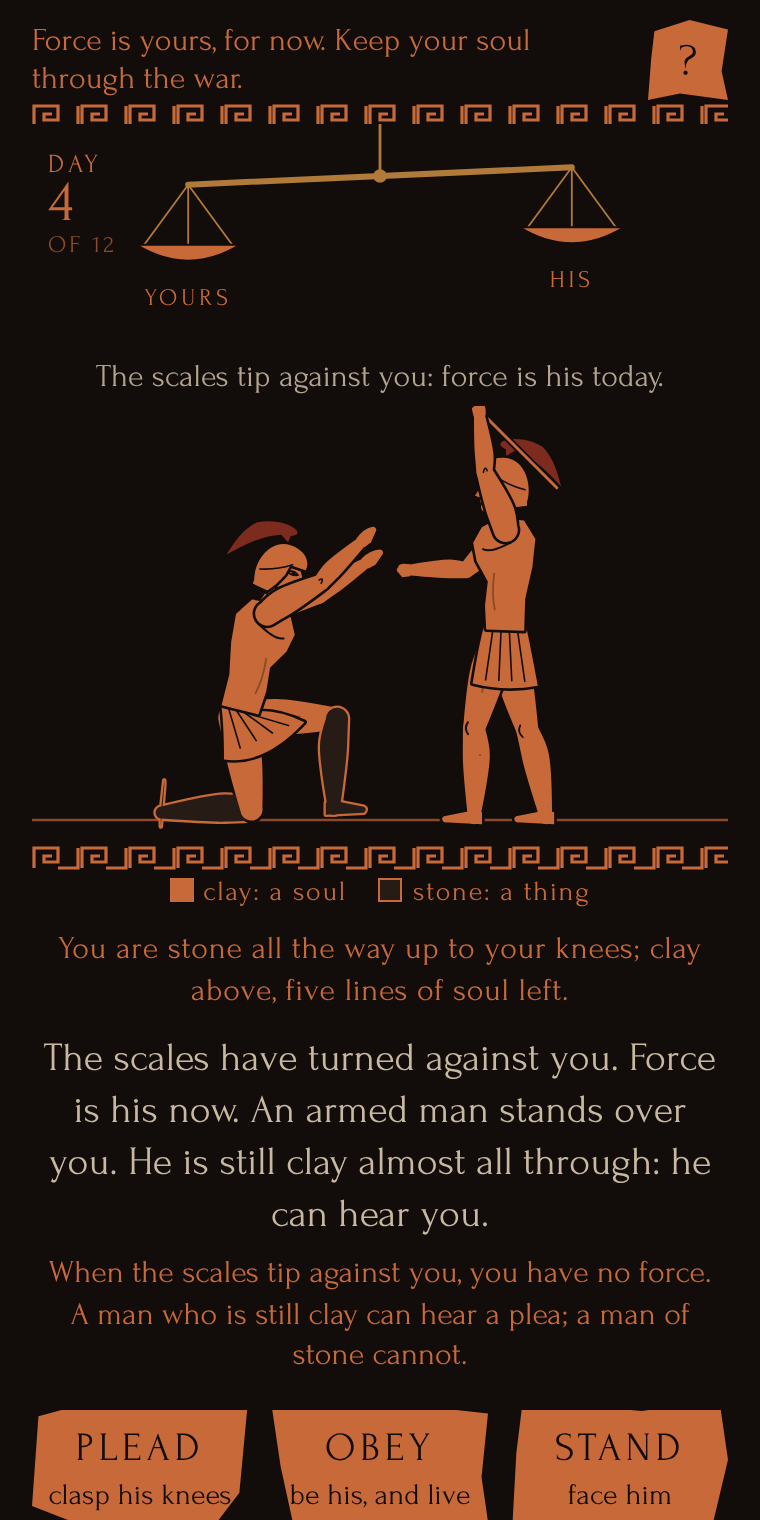
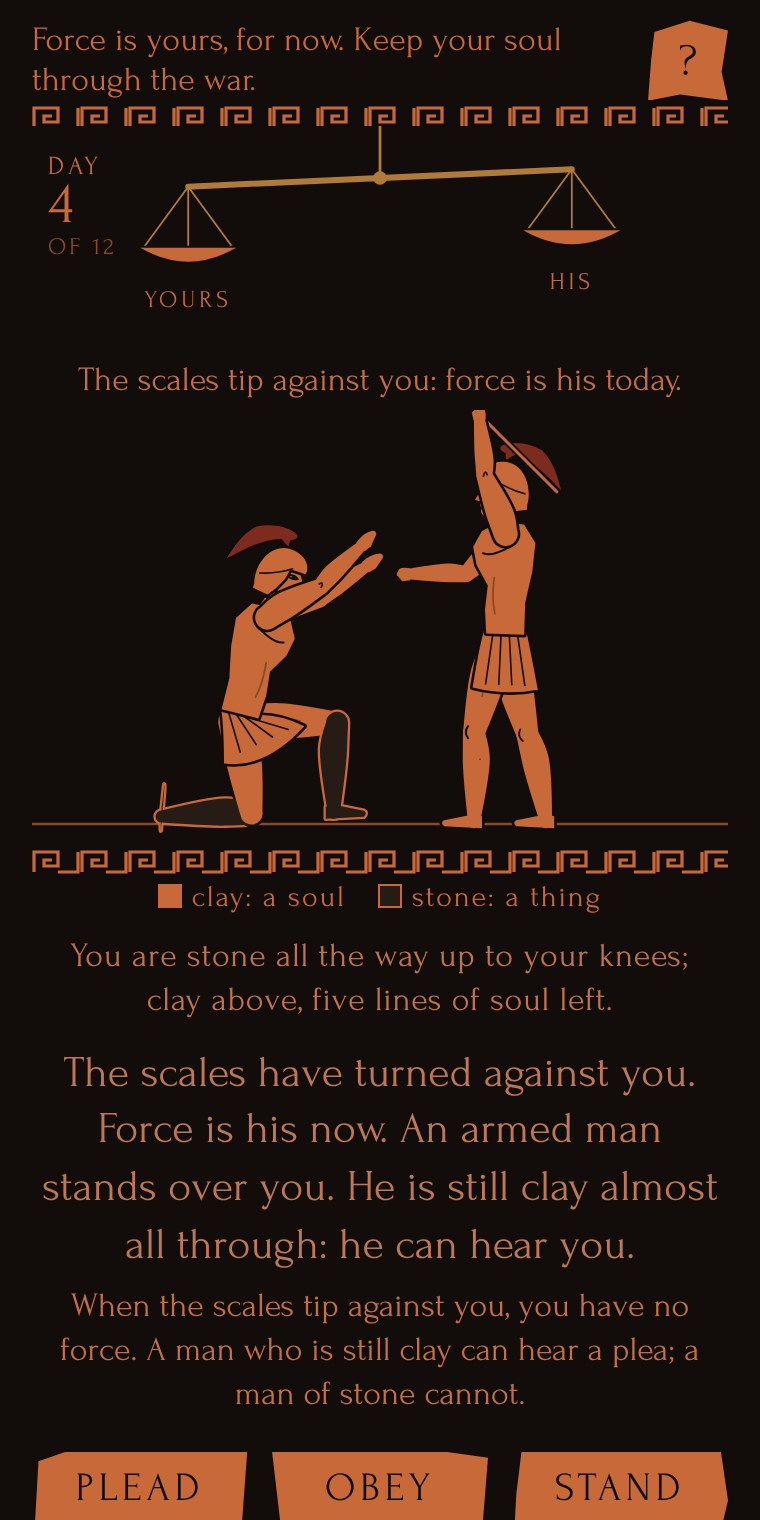
Weil's Vase, revision 4: one axis of ink from clay to the stone line's warm grey; sizes a step up
Claude-Session: https://claude.ai/code/session_018niUhvwiMGBqmAW4HxwubP

diff --git a/weil/weils-vase.html b/weil/weils-vase.html
@@ -9,12 +9,14 @@
 <style>
[1 lines of base64/hex data omitted]
 :root{
-  --glaze:#120D0B; --clay:#C8693A; --dilute:#8A4A26; --white:#C9B9A1; --bright:#F0E6D2; --red:#7E2B1F; --stone:#271B15;
+  --glaze:#120D0B; --clay:#C8693A; --dilute:#8A4A26; --red:#7E2B1F; --stone:#271B15;
+  /* text: one axis from clay to the stone line's grey (#AF8A75); the further from the world and the nearer the verdict on you, the greyer and the larger */
+  --ink2:#C37046; --ink3:#C0734C; --ink45:#BD7855; --ink5:#BC7A58; --ink6:#B97D5D; --ink7:#B68063; --ink8:#B48369; --ink10:#AF8A75; --white:#B97D5D;
   --face:'Forum','Times New Roman',serif;
 }
 *{box-sizing:border-box;-webkit-tap-highlight-color:transparent}
 html,body{margin:0;padding:0;background:var(--glaze)}
-body{color:var(--white);font-family:var(--face);font-size:19px;line-height:1.32;min-height:100vh;overflow-x:hidden}
+body{color:var(--ink6);font-family:var(--face);font-size:20px;line-height:1.32;min-height:100vh;overflow-x:hidden}
 .screen{display:none;max-width:440px;margin:0 auto;padding:0 16px 28px;min-height:100vh;position:relative}
 .screen.on{display:block}
 .hidden{display:none!important}
@@ -25,23 +27,23 @@ svg{display:block}
 /* the start */
 #start h1{font-weight:400;font-size:42px;letter-spacing:.2em;text-align:center;margin:18px 0 0;color:var(--clay);line-height:1.05}
 #start .sub{text-align:center;font-size:15px;letter-spacing:.14em;color:var(--dilute);text-transform:uppercase;margin:6px 0 4px}
-#start .lede{text-align:center;font-size:22px;margin:8px 4px 6px}
-#start .acts{text-align:center;font-size:17px;color:var(--white);opacity:.92;margin:8px 6px}
-.aimline{font-size:21px;text-align:center;color:var(--clay);margin:14px 0 8px;line-height:1.25}
+#start .lede{text-align:center;font-size:24px;margin:8px 4px 6px;color:var(--ink8)}
+#start .acts{text-align:center;font-size:18px;color:var(--ink5);margin:8px 6px}
+.aimline{font-size:22px;text-align:center;color:var(--clay);margin:14px 0 8px;line-height:1.25}
 .small{font-size:15px;color:var(--dilute)}
 .links{display:flex;justify-content:center;gap:22px;margin:12px 0 4px;font-size:16px}
 .links button{background:none;border:0;color:var(--clay);font-family:var(--face);font-size:16px;letter-spacing:.12em;text-transform:uppercase;padding:8px 4px;cursor:pointer}
 .sig{text-align:center;margin:20px 0 6px;font-style:italic;font-size:14px;opacity:.6}
-.sig a{color:var(--white);text-decoration:none;text-transform:lowercase}
+.sig a{color:var(--ink6);text-decoration:none;text-transform:lowercase}
 .lifeno{text-align:center;font-size:13px;color:var(--dilute);letter-spacing:.1em;margin-top:6px}
 /* the sherds */
 .shw{position:relative;transition:transform .15s}
 .sherd{display:block;width:100%;border:0;cursor:pointer;font-family:var(--face);color:var(--glaze);text-align:center;
   background:linear-gradient(to bottom,var(--glaze) 0 5px,var(--clay) 5px);padding:13px 8px 9px;min-height:66px}
 .sherd .w{display:block;font-size:23px;letter-spacing:.18em;text-transform:uppercase;line-height:1}
-.sherd .s{display:block;font-size:15px;line-height:1.15;margin-top:5px}
+.sherd .s{display:block;font-size:16px;line-height:1.15;margin-top:5px}
 .sherd:disabled{cursor:default;opacity:.5;background:linear-gradient(104deg,var(--clay) 0 9%,var(--glaze) 9% 10.5%,var(--clay) 10.5% 88%,var(--glaze) 88% 89.5%,var(--clay) 89.5%)}
-.sherd:disabled .s{font-size:14px}
+.sherd:disabled .s{font-size:15px}
 .sh0{clip-path:polygon(3% 12%,30% 0%,72% 6%,100% 0%,96% 70%,82% 100%,22% 94%,0% 80%)}
 .sh1{clip-path:polygon(0% 6%,45% 0%,100% 10%,97% 58%,100% 92%,58% 100%,10% 95%,4% 50%)}
 .sh2{clip-path:polygon(5% 0%,60% 8%,96% 0%,100% 45%,92% 100%,40% 94%,0% 100%,2% 40%)}
@@ -54,41 +56,41 @@ svg{display:block}
 .sherds.three .sherd .w{font-size:20px;letter-spacing:.12em}
 /* the play screen */
 .top{display:flex;align-items:center;gap:10px;margin:10px 0 2px}
-.aim{flex:1;font-size:16px;color:var(--clay);line-height:1.2}
+.aim{flex:1;font-size:17px;color:var(--clay);line-height:1.2}
 .q{width:40px;height:40px;flex:none;border:0;background:var(--clay);color:var(--glaze);font-family:var(--face);font-size:22px;cursor:pointer;
   clip-path:polygon(8% 14%,52% 0%,100% 12%,92% 64%,100% 100%,40% 92%,0% 100%,4% 48%)}
 #shoulderBox{position:relative}
-.scap{font-size:16px;text-align:center;color:var(--white);opacity:.88;margin:2px 0 4px;min-height:21px}
+.scap{font-size:17px;text-align:center;color:var(--ink2);margin:2px 0 4px;min-height:22px}
 #friezeBox{position:relative}
-.legend{display:flex;justify-content:center;gap:16px;font-size:14px;color:var(--clay);margin:2px 0 0;letter-spacing:.06em}
+.legend{display:flex;justify-content:center;gap:16px;font-size:15px;color:var(--clay);margin:2px 0 0;letter-spacing:.06em}
 .legend i{font-style:normal;display:inline-block;width:12px;height:12px;vertical-align:-1px;margin-right:5px;border:1px solid var(--clay)}
 .legend .c i{background:var(--clay)} .legend .k i{background:var(--stone)}
-.you{text-align:center;font-size:16px;color:var(--clay);margin:8px 10px 0;letter-spacing:.02em}
-.scene{font-size:20px;line-height:1.3;text-align:center;margin:10px 2px 4px;color:var(--white)}
-.teach{font-size:16px;line-height:1.3;text-align:center;color:var(--clay);margin:6px 6px 4px}
-.creep{font-size:17px;text-align:center;color:var(--white);margin:6px 0 0}
+.you{text-align:center;font-size:17px;color:var(--ink3);margin:8px 10px 0;letter-spacing:.02em}
+.scene{font-size:22px;line-height:1.3;text-align:center;margin:10px 2px 4px;color:var(--ink45)}
+.teach{font-size:17px;line-height:1.3;text-align:center;color:var(--ink2);margin:6px 6px 4px}
+.creep{font-size:18px;text-align:center;color:var(--ink5);margin:6px 0 0}
 .creep b{font-weight:400;color:var(--clay);letter-spacing:.1em;text-transform:uppercase}
 #result{margin:12px 0 0;text-align:center}
-#result .said{font-size:20px;line-height:1.3}
-#result .cost{font-size:22px;color:var(--bright);margin-top:8px;letter-spacing:.02em;line-height:1.25}
-#result .why{font-size:17px;color:var(--white);margin:8px 8px 0;opacity:.92}
-#result .quote{font-size:16px;color:var(--dilute);margin:8px 10px 0;filter:brightness(1.35)}
-#result .scl{font-size:16px;color:var(--white);opacity:.8;margin:8px 0 0}
+#result .said{font-size:22px;line-height:1.3;color:var(--ink7)}
+#result .cost{font-size:25px;color:var(--ink10);margin-top:8px;letter-spacing:.02em;line-height:1.25}
+#result .why{font-size:18px;color:var(--ink6);margin:8px 8px 0}
+#result .quote{font-size:17px;color:var(--ink3);margin:8px 10px 0}
+#result .scl{font-size:17px;color:var(--ink45);margin:8px 0 0}
 #result .sherd{margin-top:16px}
 .meander{height:12px;margin:0}
 /* the end */
-#end h2{font-weight:400;font-size:25px;line-height:1.25;text-align:center;color:var(--clay);margin:22px 4px 10px}
+#end h2{font-weight:400;font-size:27px;line-height:1.25;text-align:center;color:var(--ink5);margin:22px 4px 10px}
 #panels{display:grid;grid-template-columns:repeat(3,1fr);gap:6px;margin:10px 0}
 .pan{background:var(--glaze);border-top:1px solid var(--dilute);border-bottom:1px solid var(--dilute)}
-.pan .pl{font-size:12px;text-align:center;color:var(--clay);letter-spacing:.08em;padding:2px 0 3px;line-height:1.1}
-.did{font-size:18px;text-align:center;margin:6px 4px}
-.weil{font-size:19px;text-align:center;margin:16px 4px 6px;color:var(--white)}
+.pan .pl{font-size:13px;text-align:center;color:var(--clay);letter-spacing:.08em;padding:2px 0 3px;line-height:1.1}
+.did{font-size:19px;text-align:center;margin:6px 4px;color:var(--ink7)}
+.weil{font-size:20px;text-align:center;margin:16px 4px 6px;color:var(--ink8)}
 .weil b{display:block;font-weight:400;font-size:14px;letter-spacing:.18em;text-transform:uppercase;color:var(--clay);margin-bottom:4px}
-.last{font-size:16px;text-align:center;color:var(--dilute);filter:brightness(1.4);margin:8px 10px}
+.last{font-size:17px;text-align:center;color:var(--ink3);margin:8px 10px}
 /* help and about */
 .page h2{font-weight:400;font-size:28px;letter-spacing:.14em;text-transform:uppercase;color:var(--clay);text-align:center;margin:22px 0 10px}
 .page h3{font-weight:400;font-size:17px;letter-spacing:.14em;text-transform:uppercase;color:var(--clay);margin:20px 0 4px}
-.page p,.page li{font-size:17px;line-height:1.38}
+.page p,.page li{font-size:18px;line-height:1.38}
 .page ul{padding-left:18px;margin:4px 0}
 .back{margin:20px 0 6px}
 </style>

diff --git a/weil/template.html b/weil/template.html
@@ -9,12 +9,14 @@
 <style>
 @font-face{font-family:'Forum';font-style:normal;font-weight:400;src:url(data:font/woff2;base64,/*__FONT_FORUM__*/) format('woff2');font-display:block}
 :root{
-  --glaze:#120D0B; --clay:#C8693A; --dilute:#8A4A26; --white:#C9B9A1; --bright:#F0E6D2; --red:#7E2B1F; --stone:#271B15;
+  --glaze:#120D0B; --clay:#C8693A; --dilute:#8A4A26; --red:#7E2B1F; --stone:#271B15;
+  /* text: one axis from clay to the stone line's grey (#AF8A75); the further from the world and the nearer the verdict on you, the greyer and the larger */
+  --ink2:#C37046; --ink3:#C0734C; --ink45:#BD7855; --ink5:#BC7A58; --ink6:#B97D5D; --ink7:#B68063; --ink8:#B48369; --ink10:#AF8A75; --white:#B97D5D;
   --face:'Forum','Times New Roman',serif;
 }
 *{box-sizing:border-box;-webkit-tap-highlight-color:transparent}
 html,body{margin:0;padding:0;background:var(--glaze)}
-body{color:var(--white);font-family:var(--face);font-size:19px;line-height:1.32;min-height:100vh;overflow-x:hidden}
+body{color:var(--ink6);font-family:var(--face);font-size:20px;line-height:1.32;min-height:100vh;overflow-x:hidden}
 .screen{display:none;max-width:440px;margin:0 auto;padding:0 16px 28px;min-height:100vh;position:relative}
 .screen.on{display:block}
 .hidden{display:none!important}
@@ -25,23 +27,23 @@ svg{display:block}
 /* the start */
 #start h1{font-weight:400;font-size:42px;letter-spacing:.2em;text-align:center;margin:18px 0 0;color:var(--clay);line-height:1.05}
 #start .sub{text-align:center;font-size:15px;letter-spacing:.14em;color:var(--dilute);text-transform:uppercase;margin:6px 0 4px}
-#start .lede{text-align:center;font-size:22px;margin:8px 4px 6px}
-#start .acts{text-align:center;font-size:17px;color:var(--white);opacity:.92;margin:8px 6px}
-.aimline{font-size:21px;text-align:center;color:var(--clay);margin:14px 0 8px;line-height:1.25}
+#start .lede{text-align:center;font-size:24px;margin:8px 4px 6px;color:var(--ink8)}
+#start .acts{text-align:center;font-size:18px;color:var(--ink5);margin:8px 6px}
+.aimline{font-size:22px;text-align:center;color:var(--clay);margin:14px 0 8px;line-height:1.25}
 .small{font-size:15px;color:var(--dilute)}
 .links{display:flex;justify-content:center;gap:22px;margin:12px 0 4px;font-size:16px}
 .links button{background:none;border:0;color:var(--clay);font-family:var(--face);font-size:16px;letter-spacing:.12em;text-transform:uppercase;padding:8px 4px;cursor:pointer}
 .sig{text-align:center;margin:20px 0 6px;font-style:italic;font-size:14px;opacity:.6}
-.sig a{color:var(--white);text-decoration:none;text-transform:lowercase}
+.sig a{color:var(--ink6);text-decoration:none;text-transform:lowercase}
 .lifeno{text-align:center;font-size:13px;color:var(--dilute);letter-spacing:.1em;margin-top:6px}
 /* the sherds */
 .shw{position:relative;transition:transform .15s}
 .sherd{display:block;width:100%;border:0;cursor:pointer;font-family:var(--face);color:var(--glaze);text-align:center;
   background:linear-gradient(to bottom,var(--glaze) 0 5px,var(--clay) 5px);padding:13px 8px 9px;min-height:66px}
 .sherd .w{display:block;font-size:23px;letter-spacing:.18em;text-transform:uppercase;line-height:1}
-.sherd .s{display:block;font-size:15px;line-height:1.15;margin-top:5px}
+.sherd .s{display:block;font-size:16px;line-height:1.15;margin-top:5px}
 .sherd:disabled{cursor:default;opacity:.5;background:linear-gradient(104deg,var(--clay) 0 9%,var(--glaze) 9% 10.5%,var(--clay) 10.5% 88%,var(--glaze) 88% 89.5%,var(--clay) 89.5%)}
-.sherd:disabled .s{font-size:14px}
+.sherd:disabled .s{font-size:15px}
 .sh0{clip-path:polygon(3% 12%,30% 0%,72% 6%,100% 0%,96% 70%,82% 100%,22% 94%,0% 80%)}
 .sh1{clip-path:polygon(0% 6%,45% 0%,100% 10%,97% 58%,100% 92%,58% 100%,10% 95%,4% 50%)}
 .sh2{clip-path:polygon(5% 0%,60% 8%,96% 0%,100% 45%,92% 100%,40% 94%,0% 100%,2% 40%)}
@@ -54,41 +56,41 @@ svg{display:block}
 .sherds.three .sherd .w{font-size:20px;letter-spacing:.12em}
 /* the play screen */
 .top{display:flex;align-items:center;gap:10px;margin:10px 0 2px}
-.aim{flex:1;font-size:16px;color:var(--clay);line-height:1.2}
+.aim{flex:1;font-size:17px;color:var(--clay);line-height:1.2}
 .q{width:40px;height:40px;flex:none;border:0;background:var(--clay);color:var(--glaze);font-family:var(--face);font-size:22px;cursor:pointer;
   clip-path:polygon(8% 14%,52% 0%,100% 12%,92% 64%,100% 100%,40% 92%,0% 100%,4% 48%)}
 #shoulderBox{position:relative}
-.scap{font-size:16px;text-align:center;color:var(--white);opacity:.88;margin:2px 0 4px;min-height:21px}
+.scap{font-size:17px;text-align:center;color:var(--ink2);margin:2px 0 4px;min-height:22px}
 #friezeBox{position:relative}
-.legend{display:flex;justify-content:center;gap:16px;font-size:14px;color:var(--clay);margin:2px 0 0;letter-spacing:.06em}
+.legend{display:flex;justify-content:center;gap:16px;font-size:15px;color:var(--clay);margin:2px 0 0;letter-spacing:.06em}
 .legend i{font-style:normal;display:inline-block;width:12px;height:12px;vertical-align:-1px;margin-right:5px;border:1px solid var(--clay)}
 .legend .c i{background:var(--clay)} .legend .k i{background:var(--stone)}
-.you{text-align:center;font-size:16px;color:var(--clay);margin:8px 10px 0;letter-spacing:.02em}
-.scene{font-size:20px;line-height:1.3;text-align:center;margin:10px 2px 4px;color:var(--white)}
-.teach{font-size:16px;line-height:1.3;text-align:center;color:var(--clay);margin:6px 6px 4px}
-.creep{font-size:17px;text-align:center;color:var(--white);margin:6px 0 0}
+.you{text-align:center;font-size:17px;color:var(--ink3);margin:8px 10px 0;letter-spacing:.02em}
+.scene{font-size:22px;line-height:1.3;text-align:center;margin:10px 2px 4px;color:var(--ink45)}
+.teach{font-size:17px;line-height:1.3;text-align:center;color:var(--ink2);margin:6px 6px 4px}
+.creep{font-size:18px;text-align:center;color:var(--ink5);margin:6px 0 0}
 .creep b{font-weight:400;color:var(--clay);letter-spacing:.1em;text-transform:uppercase}
 #result{margin:12px 0 0;text-align:center}
-#result .said{font-size:20px;line-height:1.3}
-#result .cost{font-size:22px;color:var(--bright);margin-top:8px;letter-spacing:.02em;line-height:1.25}
-#result .why{font-size:17px;color:var(--white);margin:8px 8px 0;opacity:.92}
-#result .quote{font-size:16px;color:var(--dilute);margin:8px 10px 0;filter:brightness(1.35)}
-#result .scl{font-size:16px;color:var(--white);opacity:.8;margin:8px 0 0}
+#result .said{font-size:22px;line-height:1.3;color:var(--ink7)}
+#result .cost{font-size:25px;color:var(--ink10);margin-top:8px;letter-spacing:.02em;line-height:1.25}
+#result .why{font-size:18px;color:var(--ink6);margin:8px 8px 0}
+#result .quote{font-size:17px;color:var(--ink3);margin:8px 10px 0}
+#result .scl{font-size:17px;color:var(--ink45);margin:8px 0 0}
 #result .sherd{margin-top:16px}
 .meander{height:12px;margin:0}
 /* the end */
-#end h2{font-weight:400;font-size:25px;line-height:1.25;text-align:center;color:var(--clay);margin:22px 4px 10px}
+#end h2{font-weight:400;font-size:27px;line-height:1.25;text-align:center;color:var(--ink5);margin:22px 4px 10px}
 #panels{display:grid;grid-template-columns:repeat(3,1fr);gap:6px;margin:10px 0}
 .pan{background:var(--glaze);border-top:1px solid var(--dilute);border-bottom:1px solid var(--dilute)}
-.pan .pl{font-size:12px;text-align:center;color:var(--clay);letter-spacing:.08em;padding:2px 0 3px;line-height:1.1}
-.did{font-size:18px;text-align:center;margin:6px 4px}
-.weil{font-size:19px;text-align:center;margin:16px 4px 6px;color:var(--white)}
+.pan .pl{font-size:13px;text-align:center;color:var(--clay);letter-spacing:.08em;padding:2px 0 3px;line-height:1.1}
+.did{font-size:19px;text-align:center;margin:6px 4px;color:var(--ink7)}
+.weil{font-size:20px;text-align:center;margin:16px 4px 6px;color:var(--ink8)}
 .weil b{display:block;font-weight:400;font-size:14px;letter-spacing:.18em;text-transform:uppercase;color:var(--clay);margin-bottom:4px}
-.last{font-size:16px;text-align:center;color:var(--dilute);filter:brightness(1.4);margin:8px 10px}
+.last{font-size:17px;text-align:center;color:var(--ink3);margin:8px 10px}
 /* help and about */
 .page h2{font-weight:400;font-size:28px;letter-spacing:.14em;text-transform:uppercase;color:var(--clay);text-align:center;margin:22px 0 10px}
 .page h3{font-weight:400;font-size:17px;letter-spacing:.14em;text-transform:uppercase;color:var(--clay);margin:20px 0 4px}
-.page p,.page li{font-size:17px;line-height:1.38}
+.page p,.page li{font-size:18px;line-height:1.38}
 .page ul{padding-left:18px;margin:4px 0}
 .back{margin:20px 0 6px}
 </style>

diff --git a/weil/memo.md b/weil/memo.md
@@ -225,3 +225,5 @@ The spread is wide, so the decisions matter. No rule wins everywhere: measured k
 > **Revision 2 (3 Nov 2026): the stone, said.** The author played three lives before he noticed that the figure's blackening is the game's whole picture: the more you strike, the more of you is stone. The figure showed it; nothing said it. Now every day's screen carries a standing line under the legend ("You are stone all the way up to your waist; clay above, three lines of soul left."), which follows the figure after each act, and the result's cost line is cumulative rather than incremental ("Stone climbs. You are now stone all the way up to your hips." / "The stone goes back down. You are now stone only up to your knees."). One more sentence on the end screen, after Weil's diagnosis, names what the player will have been doing and refuses it in her terms: "You looked for the right amount of force. She says there is none; what is left is the interval, and pity for both sides." Mechanism numbers untouched; calibration 30/30; scripted sessions and screenshots regenerated.
 
 > **Revision 3 (3 Nov 2026): the author's slow read, and the continuity pass.** From his notes: (1) the subtitle is now *The Poem of Force*, her title, with the full one kept in About; (2) the confirm sherd is gone: one touch acts, which is also what the creeping arm already did, so the two no longer contradict each other (the three words under each sherd carry the meaning; the preview pose is played as part of the act); (3) "pan" is gone from every screen: the scales *tip your way* or *against you*, the labels YOURS and HIS do the rest; (4) the caption under the scales no longer rewrites itself after the swing, which had read as a consequence of the gesture; the result speaks once about the scales and keeps fate apart from the player's push ("The scales hang where they were. Mercy brings the turn nearer." / "Force used holds the turn off a little."), and the struck-and-thrown-down case is one sentence; (5) the body text drops from added white to a muted bone, and the one bright white is reserved for the stone line, which is now the loudest sentence on the result screen, matching the flash on the figure. Then every line the game can say was printed in every state it can be said in (`corpus`, kept in the session scratch, not here) and read in order. Fixed: passing a man who is not a suppliant no longer knocks him down ("He fell, and lies where he fell" had been applied to the speaker, the priest, the woman at the loom and the old man of the night; each now has its own line and pose, and keeps his lines); the night has lines for STRIKE, TAKE and PASS, and the verdict names them; the dealt armed men carry a noun each (a charioteer, a Lycian, a man with a wounded hand, a spearman of the enemy) so the third armed man is not the first risen from the dead and the twelve panels read as twelve men; the night visitor is "the father of the charioteer. You killed his son on day five" (and the priest's brother); a second day on your knees says "still against you ... another armed man"; the raised suppliant "goes back to his own people" rather than "stands, a man again"; the wounded man is carried; grace no longer says the same thing twice; the panel labels are all from the player's side (knelt, heard / knelt, unheard / stood / stood, killed / he struck you). One quotation I could not check against the pamphlet from here was dropped rather than risked. Mechanism numbers untouched; calibration 30/30; scripted sessions and screenshots regenerated; a separate browser run exercised every man's pass-by and grace path without error.
+
+> **Revision 4 (3 Nov 2026): the inks.** The author found every text colour troubling in turn: the added white as a glare, the muted bone as a third colour that was neither clay nor anything else, a pure grey for the stone line still too close to white. His proposal, built and compared in three rounds of side-by-side renderings: one axis of colour from clay to the stone line's own colour, and every kind of text a point on it, with size climbing along the same axis. The anchor is a mid grey warmed with a third of clay (`#AF8A75`): the stone line, alone, at 25 px. From there down toward clay: what you did (0.7, 22 px), Weil's rule (0.6, 18), who is before you and what the scales did (0.45, 22 and 17), your state and the quotation (0.3, 17), the scales caption and the teaching line (0.2, 17), the aim in clay (17). The start and end screens sit on the same axis (the lede at 0.8, the verdict headline at 0.5, Weil's paragraph at 0.8). No white anywhere; the clay and glaze of the figures are untouched. Every size went up a step, the sherd labels and the help pages too. Section 13's palette entry for added white is superseded by this note: added white now appears only in the flash on a figure's band and the glow of the night's grace. CSS only; calibration 30/30; sessions and screenshots regenerated.
